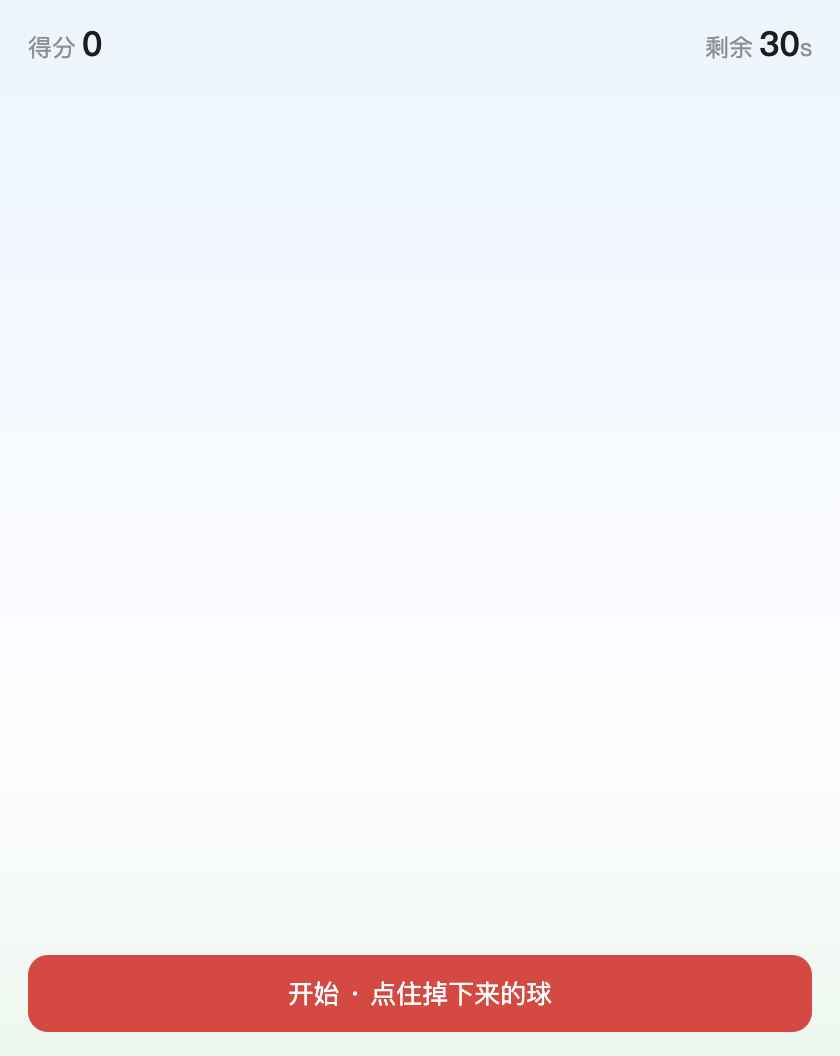
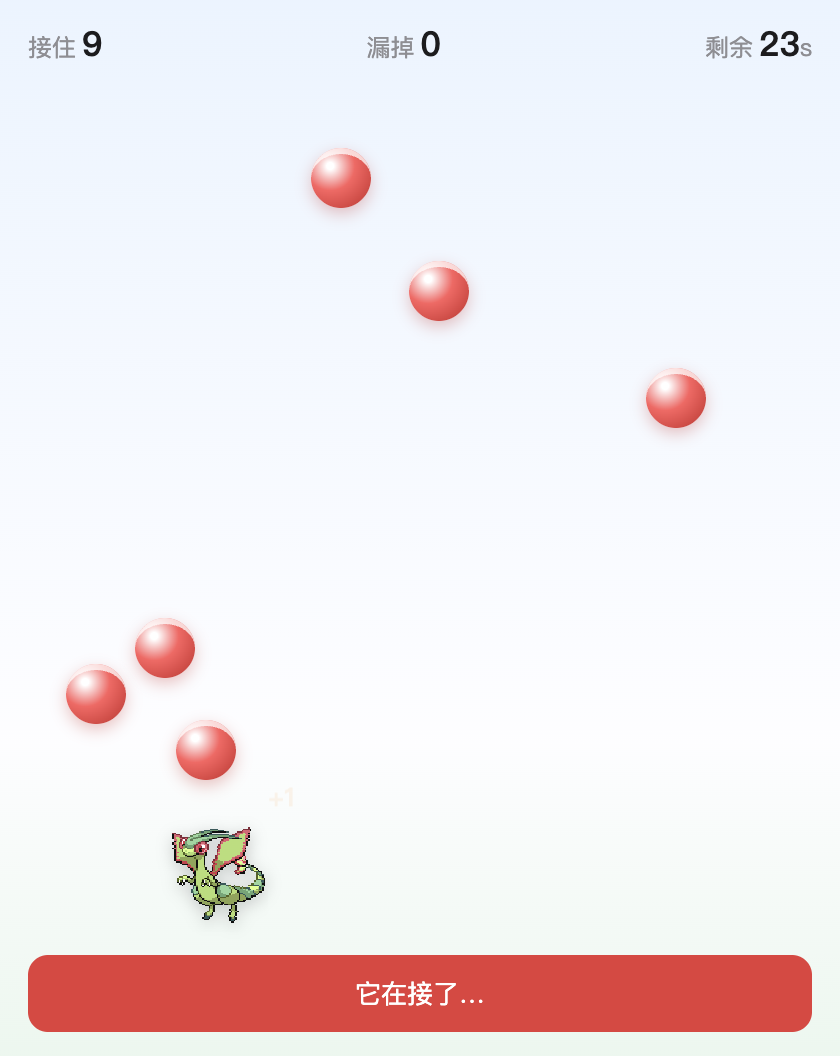
接球小游戏改成宠物自动接球（修 backgroundThrottling 导致不移动）

diff --git a/renderer/game.js b/renderer/game.js
@@ -1,74 +1,121 @@
 const field = document.getElementById('field');
+const pet = document.getElementById('pet');
 const scoreEl = document.getElementById('score');
+const missEl = document.getElementById('miss');
 const leftEl = document.getElementById('left');
 const overEl = document.getElementById('over');
-const overT = document.getElementById('over-t');
-const overS = document.getElementById('over-s');
 const startBtn = document.getElementById('start');
-const againBtn = document.getElementById('again');
 
-let score = 0, running = false, left = 30;
-let tickTimer = null, spawnTimer = null, secTimer = null;
+let score = 0, miss = 0, left = 30, running = false;
 let balls = [];
+let petX = 0, petW = 56;
+let spawnTimer = null, secTimer = null;
+let lastTs = 0;
+let hopT = 0;
+
+// 主进程把当前宠物的图传进来
+window.setPet = url => { if (url) pet.src = url; };
+
+function fieldW() { return field.clientWidth; }
+function petY() { return field.clientHeight - 34; }
 
 function spawn() {
   if (!running) return;
-  const b = document.createElement('div');
-  b.className = 'ball';
-  b.style.left = (14 + Math.random() * (field.clientWidth - 28)) + 'px';
-  b.style.top = '-36px';
-  field.append(b);
-  const item = { el: b, y: -36, vy: 90 + Math.random() * 70 };
-  balls.push(item);
-  b.onclick = e => {
-    e.stopPropagation();
-    if (!running || item.dead) return;
-    item.dead = true;
-    b.remove();
-    balls = balls.filter(x => x !== item);
-    score += 1;
-    scoreEl.textContent = score;
-    const p = document.createElement('div');
-    p.className = 'poof';
-    p.textContent = '+1';
-    p.style.left = b.style.left;
-    p.style.top = item.y + 'px';
-    field.append(p);
-    setTimeout(() => p.remove(), 620);
-  };
+  const w = fieldW();
+  const el = document.createElement('div');
+  el.className = 'ball';
+  const x = 20 + Math.random() * (w - 40);
+  el.style.left = x + 'px';
+  el.style.top = '-34px';
+  field.append(el);
+  balls.push({ el, x, y: -34, vy: 85 + Math.random() * 55 });
+}
+
+function poof(x, y, text, isMiss) {
+  const p = document.createElement('div');
+  p.className = 'poof' + (isMiss ? ' miss' : '');
+  p.textContent = text;
+  p.style.left = x + 'px';
+  p.style.top = y + 'px';
+  field.append(p);
+  setTimeout(() => p.remove(), 620);
 }
 
 function loop(ts) {
   if (!running) return;
-  const dt = Math.min(0.05, (ts - (loop.last || ts)) / 1000);
-  loop.last = ts;
-  for (const it of balls) {
-    it.y += it.vy * dt;
-    it.el.style.top = it.y + 'px';
-    if (it.y > field.clientHeight) {
-      it.el.remove();
-      it.dead = true;
+  const dt = Math.min(0.05, (ts - (lastTs || ts)) / 1000);
+  lastTs = ts;
+
+  const w = fieldW();
+  const baseY = petY();
+
+  // 找落得最低的球，跑过去接
+  let target = null;
+  for (const b of balls) {
+    if (b.dead) continue;
+    if (!target || b.y > target.y) target = b;
+  }
+  const speed = 330;
+  if (target) {
+    const dx = target.x - petX;
+    if (Math.abs(dx) > 4) petX += Math.sign(dx) * Math.min(Math.abs(dx), speed * dt);
+  } else {
+    // 没球时回到中间附近晃晃
+    const home = w / 2;
+    const dx = home - petX;
+    if (Math.abs(dx) > 8) petX += Math.sign(dx) * Math.min(Math.abs(dx), speed * 0.35 * dt);
+  }
+  petX = Math.max(petW / 2, Math.min(w - petW / 2, petX));
+  pet.style.left = petX + 'px';
+
+  // 球的运动和判定
+  for (const b of balls) {
+    if (b.dead) continue;
+    b.y += b.vy * dt;
+    b.el.style.top = b.y + 'px';
+
+    const nearX = Math.abs(b.x - petX) < petW * 0.55;
+    const nearY = b.y > baseY - 26 && b.y < baseY + 16;
+    if (nearX && nearY) {
+      b.dead = true;
+      b.el.remove();
+      score++;
+      scoreEl.textContent = score;
+      poof(b.x, b.y, '+1', false);
+      pet.classList.add('hop');
+      hopT = ts;
+      continue;
+    }
+    if (b.y > field.clientHeight - 4) {
+      b.dead = true;
+      b.el.remove();
+      miss++;
+      missEl.textContent = miss;
+      poof(b.x, field.clientHeight - 20, '漏了', true);
     }
   }
-  balls = balls.filter(x => !x.dead);
+  if (pet.classList.contains('hop') && ts - hopT > 110) pet.classList.remove('hop');
+  balls = balls.filter(b => !b.dead);
+
   requestAnimationFrame(loop);
 }
 
 function start() {
-  score = 0; left = 30; running = true;
+  score = 0; miss = 0; left = 30; running = true;
   scoreEl.textContent = '0';
+  missEl.textContent = '0';
   leftEl.textContent = '30';
   overEl.hidden = true;
   startBtn.disabled = true;
-  startBtn.textContent = '游戏中…';
+  startBtn.textContent = '它在接了…';
   balls.forEach(b => b.el.remove());
   balls = [];
-  loop.last = 0;
+  petX = fieldW() / 2;
+  lastTs = 0;
 
   requestAnimationFrame(loop);
-  spawnTimer = setInterval(spawn, 520);
-  for (let i = 0; i < 3; i++) setTimeout(spawn, i * 180);
-
+  spawnTimer = setInterval(spawn, 560);
+  spawn(); spawn();
   secTimer = setInterval(() => {
     left -= 1;
     leftEl.textContent = left;
@@ -84,11 +131,9 @@ function end() {
   startBtn.disabled = false;
   startBtn.textContent = '再来一局';
   overEl.hidden = false;
-  overT.textContent = '时间到！';
-  const bonus = score * 8;
-  overS.textContent = `接住 ${score} 个球 · 经验 +${bonus}`;
+  overEl.innerHTML = `<h2>时间到！</h2>
+    <p>接住 ${score} 个 · 漏掉 ${miss} 个 · 经验 +${score * 8}</p>`;
   try { window.game.done(score); } catch (_) {}
 }
 
 startBtn.onclick = start;
-againBtn.onclick = start;

diff --git a/renderer/game.html b/renderer/game.html
@@ -13,27 +13,35 @@
   }
   header {
     display: flex; align-items: center; justify-content: space-between;
-    padding: 10px 14px; color: #3a3a3c;
+    padding: 10px 14px; color: #3a3a3c; flex: none;
   }
   .stat { font-size: 12px; color: #8e8e93; }
   .stat b { font-size: 17px; color: #1c1c1e; margin-left: 3px; }
   #field { position: relative; flex: 1; overflow: hidden; }
   .ball {
-    position: absolute; width: 34px; height: 34px; margin-left: -17px;
-    border-radius: 50%; cursor: pointer;
+    position: absolute; width: 30px; height: 30px; margin-left: -15px;
+    border-radius: 50%;
     background: radial-gradient(circle at 32% 30%, #fff 6%, #ff5f5f 42%, #c62828 100%);
-    box-shadow: 0 3px 8px rgba(198, 40, 40, .35);
+    box-shadow: 0 3px 8px rgba(198, 40, 40, .3);
   }
   .ball::after {
     content: ''; position: absolute; inset: 0; border-radius: 50%;
     border-top: 3px solid rgba(255, 255, 255, .75);
   }
+  #pet {
+    position: absolute; bottom: 4px; width: 56px; height: 56px;
+    image-rendering: pixelated; margin-left: -28px;
+    filter: drop-shadow(0 2px 4px rgba(0, 0, 0, .2));
+    transition: transform .08s;
+  }
+  #pet.hop { transform: translateY(-7px); }
   .poof {
-    position: absolute; font-size: 14px; color: #ff9f43;
+    position: absolute; font-size: 13px; font-weight: 600; color: #ff9f43;
     pointer-events: none; animation: up .6s ease-out forwards;
   }
-  @keyframes up { to { transform: translateY(-26px); opacity: 0; } }
-  footer { padding: 8px 14px 12px; }
+  .poof.miss { color: #c7c7cc; }
+  @keyframes up { to { transform: translateY(-24px); opacity: 0; } }
+  footer { padding: 8px 14px 12px; flex: none; }
   button {
     width: 100%; border: 0; border-radius: 10px; padding: 10px;
     font: inherit; font-size: 13px; background: #e63b3b; color: #fff; cursor: pointer;
@@ -41,7 +49,7 @@
   .over {
     position: absolute; inset: 0; display: flex; flex-direction: column;
     align-items: center; justify-content: center; gap: 6px;
-    background: rgba(255, 255, 255, .92); z-index: 5;
+    background: rgba(255, 255, 255, .93); z-index: 5;
   }
   .over h2 { margin: 0; font-size: 20px; }
   .over p { margin: 0; color: #8e8e93; font-size: 12px; }
@@ -50,20 +58,21 @@
 </head>
 <body>
   <header>
-    <span class="stat">得分<b id="score">0</b></span>
+    <span class="stat">接住<b id="score">0</b></span>
+    <span class="stat">漏掉<b id="miss">0</b></span>
     <span class="stat">剩余<b id="left">30</b>s</span>
   </header>
 
   <div id="field">
-    <div class="over" id="over" hidden>
-      <h2 id="over-t">时间到！</h2>
-      <p id="over-s">–</p>
-      <button id="again" style="width:auto;padding:8px 20px;margin-top:6px">再来一局</button>
+    <img id="pet" alt="">
+    <div class="over" id="over">
+      <h2>准备好了吗？</h2>
+      <p>它会自己跑过去接，你看着就行</p>
     </div>
   </div>
 
   <footer>
-    <button id="start">开始 · 点住掉下来的球</button>
+    <button id="start">开始</button>
   </footer>
 
   <script src="game.js"></script>

diff --git a/main.js b/main.js
@@ -1771,10 +1771,25 @@ function createGameWindow() {
     title: '接球小游戏', backgroundColor: '#eef6ff', show: false,
     webPreferences: {
       preload: path.join(__dirname, 'renderer', 'game-preload.js'),
-      contextIsolation: true, nodeIntegration: false
+      contextIsolation: true, nodeIntegration: false,
+      backgroundThrottling: false
     }
   });
   gameWin.loadFile(path.join(__dirname, 'renderer', 'game.html'));
+  gameWin.webContents.once('did-finish-load', () => {
+    const url = spriteUrlFor(speciesDex, shinyFor(speciesDex));
+    gameWin.webContents.executeJavaScript(`window.setPet(${JSON.stringify(url)})`).catch(() => {});
+    if (process.env.PET_GAME === '2') {
+      setTimeout(() => { try { gameWin.webContents.executeJavaScript("document.getElementById('start').click()"); } catch (_) {} }, 1200);
+      setTimeout(async () => {
+        try {
+          const img = await gameWin.webContents.capturePage();
+          fs.writeFileSync(path.join(__dirname, 'game-shot.png'), img.toPNG());
+          console.log('[game] 截图完成 score=', await gameWin.webContents.executeJavaScript("document.getElementById('score').textContent"));
+        } catch (_) {}
+      }, 9000);
+    }
+  });
   gameWin.once('ready-to-show', () => {
     gameWin.show();
     if (process.env.PET_CAPTURE) captureTo(gameWin, 'game-shot.png');

diff --git a/README.md b/README.md
@@ -36,7 +36,7 @@ Electron 写的，免费开源，**macOS / Windows 都能装**。
 - **自动换一只**：5 分钟到 3 小时任选，到点自己换个新的出来
 - **收藏**：图鉴卡片右上角点 ♡ 收藏，顶部「♥ 收藏」只显示收藏的
 - **陪伴报告**：陪你多少天、走了多少米、摸头多少次，一键存成图片
-- **接球小游戏**：30 秒点球，接几个给几个经验
+- **接球小游戏**：30 秒里它自己跑着接球，接几个给几个经验
 - **久坐 / 喝水提醒**：坐 45 分钟喊你动一动，每小时提醒喝水
 - **生日与节日**：每年生日冒蛋糕，圣诞 / 元旦 / 情人节 / 国庆有彩蛋
 - **鼠标跟随**：偶尔走过来蹲在你光标旁边
